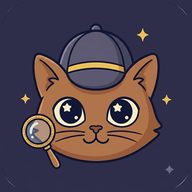
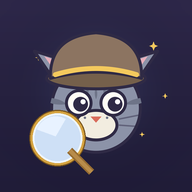
Prep Play : confidentialité + icone grise + visuels store + fiche Play

diff --git a/public/confidentialite.html b/public/confidentialite.html
@@ -1,0 +1,66 @@
+<!DOCTYPE html>
+<html lang="fr">
+<head>
+<meta charset="UTF-8">
+<meta name="viewport" content="width=device-width, initial-scale=1.0, viewport-fit=cover">
+<meta name="theme-color" content="#26223A">
+<link rel="icon" href="/icon-192.png">
+<title>Politique de confidentialité — Mystères à Chaville</title>
+<style>
+  * { margin: 0; padding: 0; box-sizing: border-box; }
+  :root { --encre:#2f2a45; --or:#f4c95d; --creme:#fbf0d4; --brume:#c7bbd4; --nuit:#26223a; }
+  body {
+    font-family: 'Trebuchet MS', 'Segoe UI', system-ui, sans-serif;
+    background: linear-gradient(165deg, #26223a 0%, #3a2f6b 60%, #4a3d85 100%);
+    color: var(--encre); min-height: 100dvh; padding: 24px 16px;
+    display: flex; justify-content: center; -webkit-tap-highlight-color: transparent;
+  }
+  .feuille {
+    width: 100%; max-width: 620px; background: var(--creme);
+    border: 3px solid var(--encre); border-radius: 22px;
+    padding: 28px 26px 30px; box-shadow: 0 8px 0 rgba(47,42,69,.5);
+  }
+  .logo { font-size: 2.4rem; line-height: 1; }
+  h1 { color: #8a6b3f; font-size: 1.45rem; line-height: 1.25; margin: 8px 0 4px; }
+  .maj { font-size: .82rem; opacity: .65; margin-bottom: 18px; }
+  h2 { color: var(--encre); font-size: 1.05rem; margin: 20px 0 6px; }
+  p { font-size: .95rem; line-height: 1.6; margin-bottom: 10px; }
+  a { color: #8a6b3f; font-weight: bold; }
+  .retour {
+    display: inline-block; margin-top: 24px; background: var(--or); color: var(--encre);
+    border: 3px solid var(--encre); border-radius: 14px; padding: 12px 20px;
+    text-decoration: none; font-weight: bold; box-shadow: 0 4px 0 rgba(47,42,69,.4);
+  }
+  .retour:active { transform: translateY(3px); box-shadow: 0 1px 0 rgba(47,42,69,.4); }
+</style>
+</head>
+<body>
+  <main class="feuille">
+    <div class="logo">🐱🔍</div>
+    <h1>Politique de confidentialité<br>Mystères à Chaville</h1>
+    <p class="maj">Dernière mise à jour : juillet 2026 · Éditeur : MaiTao Éditions</p>
+
+    <p><strong>Mystères à Chaville</strong> est un jeu pour enfants conçu pour respecter pleinement la vie privée.</p>
+
+    <h2>Aucune donnée personnelle n'est collectée</h2>
+    <p>Le jeu ne demande aucun compte, aucune inscription, aucune information personnelle (nom, e-mail, âge, localisation…).</p>
+
+    <h2>Aucune donnée n'est transmise</h2>
+    <p>La progression du jeu (enquêtes résolues, indices, croquettes) est enregistrée <strong>uniquement sur l'appareil</strong>, dans le stockage local du navigateur. Rien n'est envoyé à un serveur, à nous, ou à un tiers.</p>
+
+    <h2>Aucun traçage, aucune publicité</h2>
+    <p>Le jeu ne contient ni publicité, ni outil de mesure d'audience, ni traceur.</p>
+
+    <h2>Suppression des données</h2>
+    <p>Vous pouvez effacer toute la progression à tout moment via le bouton « Nouvelle partie » sur l'écran d'accueil, ou en désinstallant l'application.</p>
+
+    <h2>Enfants</h2>
+    <p>Ce jeu s'adresse aux enfants et respecte les réglementations applicables sur la protection des mineurs (RGPD, et principes COPPA) par conception : sans collecte, il n'y a aucune donnée d'enfant à protéger.</p>
+
+    <h2>Contact</h2>
+    <p>Pour toute question : <a href="mailto:[email redacted]">[email redacted]</a></p>
+
+    <a class="retour" href="/index.html">← Retour au jeu</a>
+  </main>
+</body>
+</html>

diff --git a/public/sw.js b/public/sw.js
@@ -1,8 +1,9 @@
-const CACHE = 'chaville-v12';
+const CACHE = 'chaville-v13';
 const ASSETS = [
   './',
   './index.html',
   './aventure.html',
+  './confidentialite.html',
   './manifest.json',
   './icon-192.png',
   './icon-512.png',

diff --git a/index.html b/index.html
@@ -120,6 +120,8 @@
       <p>🎁 <strong>Gratuit, sans publicité, sans achat.</strong> Aucun bouton ne coûte d'argent, jamais.</p>
       <p>🔒 <strong>Confidentialité :</strong> aucune donnée n'est collectée. Toute la progression reste sur cet appareil (stockage local du navigateur). Aucun compte, aucune inscription, aucun traçage, aucune connexion à un serveur.</p>
       <p class="note">Le jeu fonctionne hors ligne une fois chargé.</p>
+      <p><a href="/confidentialite.html" style="color:#8a6b3f;font-weight:bold;text-underline-offset:3px;">Lire la politique de confidentialité complète →</a></p>
+      <p class="note">Édité par MaiTao Éditions · [email redacted]</p>
       <div class="actions">
         <button class="btn btn-annuler" id="pa-fermer" type="button">Fermer</button>
       </div>

diff --git a/da/store/fiche-play.md b/da/store/fiche-play.md
@@ -1,0 +1,84 @@
+# Fiche Google Play — Mystères à Chaville
+*Textes prêts à copier-coller. Éditeur : MaiTao Éditions. Généré le 24/07/2026. Source : `claude/diffusion-google-play-chaville.md`.*
+
+## Identité (à saisir dans la console)
+- **Nom de développeur affiché** : MaiTao Éditions
+- **E-mail de contact** : [email redacted]
+- **Nom de package** (permanent) : `fr.maitao.chaville`
+- **Catégorie** : Jeux → Réflexion (Puzzle)
+- **Tags** : enquête, détective, réflexion, éducatif, enfants
+- **Langue par défaut** : Français (France)
+- **Pays de diffusion** : France, Belgique, Suisse, Canada, Luxembourg
+- **Site web** (optionnel) : https://chaville-2o8n.vercel.app/
+- **URL politique de confidentialité** : https://<domaine>/confidentialite.html
+
+## Nom de l'application (max 30)
+```
+Mystères à Chaville
+```
+
+## Description courte (max 80)
+```
+Jeux d'enquête pour enfants : observe, déchiffre, calcule et démasque le voleur.
+```
+
+## Description longue (max 4000)
+```
+Mystères à Chaville est un jeu d'enquête pour les enfants de 9 à 12 ans. Ton
+enfant incarne un jeune chat détective qui résout des mystères dans la petite
+ville de Chaville, de nuit, à la lueur des réverbères.
+
+🔎 SIX ENQUÊTES + UNE GRANDE FINALE
+Un collier disparu au manoir, un chalutier « fantôme » au port, un livre volé
+à la bibliothèque… Chaque affaire semble surnaturelle, mais se résout par
+l'observation et le raisonnement — jamais par la magie. Au fil des enquêtes,
+un mystérieux voleur, le Fantôme Gris, laisse des indices… jusqu'à la
+confrontation finale sur les toits de la ville.
+
+🧠 QUATRE COMPÉTENCES TRAVAILLÉES EN JOUANT
+• Observation et mémoire (retrouver le détail qui cloche)
+• Lecture et vocabulaire (déchiffrer messages et codes)
+• Calcul et logique (compter les indices, vérifier les alibis)
+• Raisonnement spatial (casse-têtes à la manière du Professeur Layton)
+
+💛 PENSÉ POUR LES ENFANTS ET RASSURANT POUR LES PARENTS
+• 100 % GRATUIT — aucune publicité, aucun achat intégré. Aucun bouton ne
+  coûte jamais d'argent.
+• AUCUNE donnée collectée. Pas de compte, pas d'inscription, pas de traçage.
+  Toute la progression reste sur l'appareil.
+• Fonctionne HORS LIGNE une fois installé.
+• Bienveillant : jamais de punition, jamais de compte à rebours stressant.
+  Une erreur = une explication en douceur, et on réessaie autant qu'on veut.
+• En français, avec un ton chaleureux adapté aux 9-12 ans.
+
+🐱 UNE AVENTURE À EXPLORER
+On se déplace d'un simple toucher, on fouille les décors, on interroge les
+suspects, on remplit son carnet de détective et on gagne des croquettes d'or
+en trouvant les étincelles cachées.
+
+Un jeu conçu par un papa développeur, sans publicité et sans collecte de
+données, pour que les enfants s'amusent en réfléchissant.
+```
+
+## Éléments graphiques (dans ce dossier `da/store/`)
+- **Icône 512×512** : `public/icon-512.png` (chat détective gris, régénéré).
+- **Feature graphic 1024×500** : `feature-graphic.png`.
+- **Captures téléphone (1080×1920)** : `screenshot-1-place.png`, `screenshot-2-bibliotheque.png`, `screenshot-3-carte.png`, `screenshot-4-port.png`, `screenshot-5-manoir.png`.
+
+## Classification du contenu (IARC)
+Aucune violence, aucun contenu sensible → répondre « non » à toutes les catégories. Classification attendue : **PEGI 3 / Tout public**.
+
+## Public cible & « Conçu pour les familles »
+- Tranche d'âge : **9-12 ans** (inclut des moins de 13 ans → programme Familles).
+- Déclarer : contenu adapté enfants, aucune publicité, aucune collecte.
+- Politique de confidentialité obligatoire : fournie (`/confidentialite.html`).
+
+## Sécurité des données (Data safety) — réponses
+- Collecte de données utilisateur ? **Non** (tout en local, rien n'est transmis).
+- Partage avec des tiers ? **Non.**
+- Données chiffrées en transit ? **Sans objet** (aucune donnée ne quitte l'appareil).
+- Suppression : via « Nouvelle partie » ou désinstallation.
+- Publicité : **« Cette app ne contient pas de publicité. »**
+
+## Rappel packaging
+PWABuilder → AAB (TWA), package `fr.maitao.chaville`, Play App Signing activé (conserver la clé d'upload), `assetlinks.json` dans `public/.well-known/`. Téléverser d'abord en **test fermé** (12 testeurs / 14 jours) avant production.